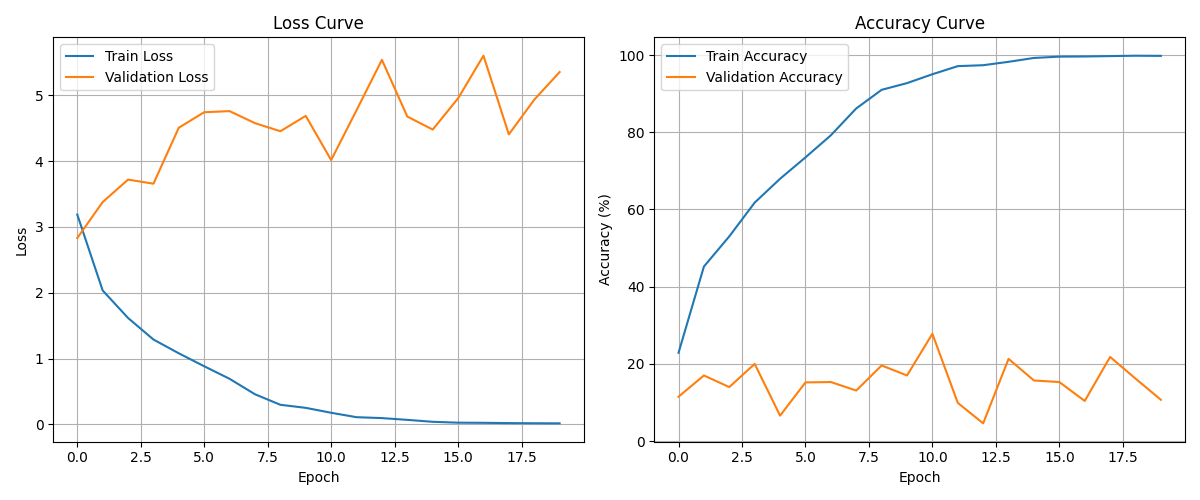
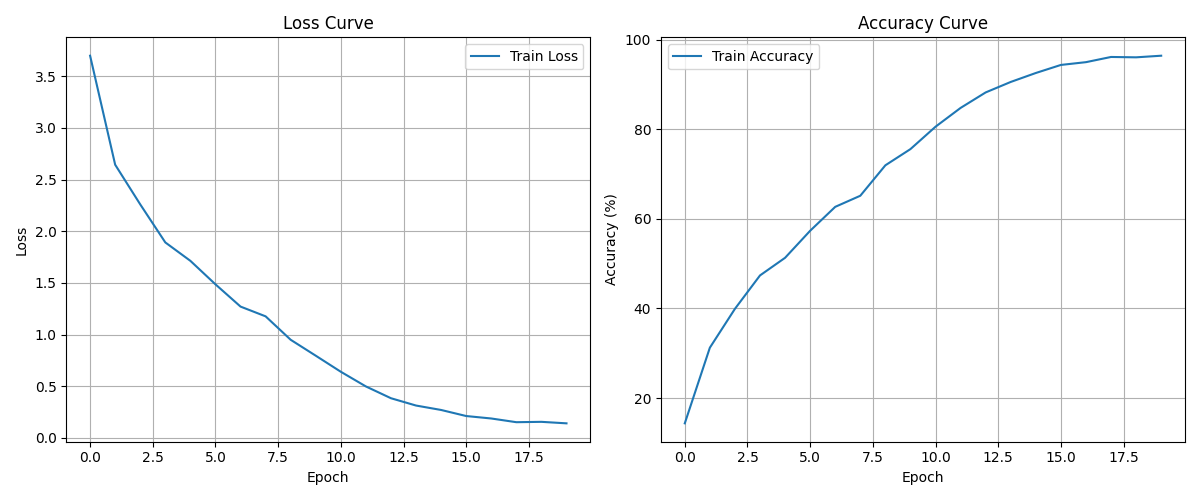
week11 add

diff --git a/week11/cifar100_classify2.py b/week11/cifar100_classify2.py
@@ -199,6 +199,14 @@ plt.show()
 
 
 """
+Train: Loss 0.1871 | Acc 95.02%
+Epoch [18/20] | LR: 0.000012
+Train: Loss 0.1512 | Acc 96.18%
+Epoch [19/20] | LR: 0.000003
+Train: Loss 0.1546 | Acc 96.10%
+Epoch [20/20] | LR: 0.000000
+Train: Loss 0.1401 | Acc 96.46%
+Training complete in 9.30 minutes
 数据预处理优化：
 使用更合适的128x128分辨率
 添加随机裁剪增强
